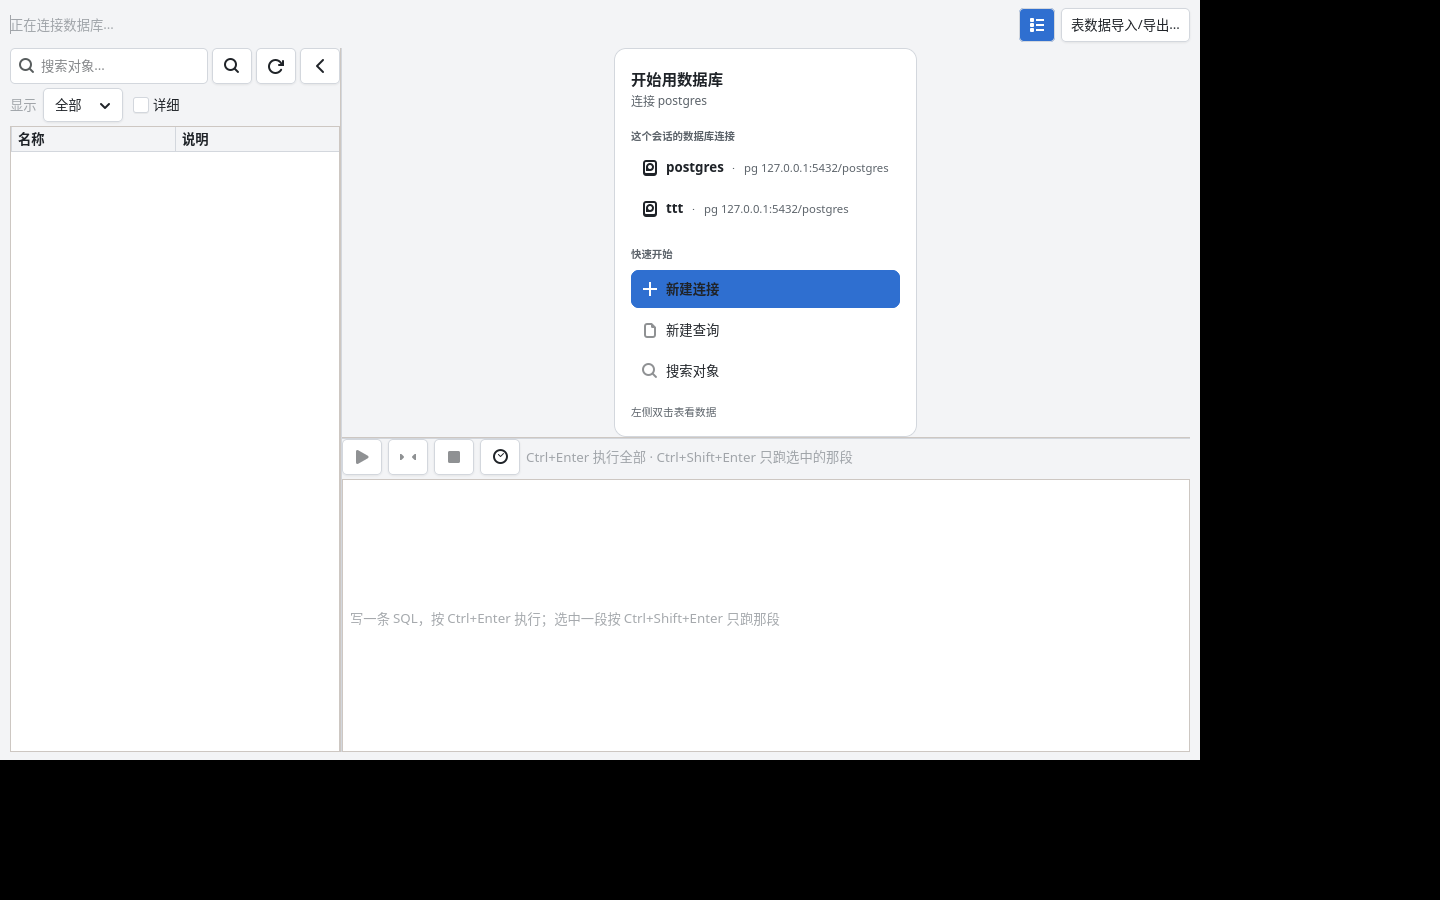
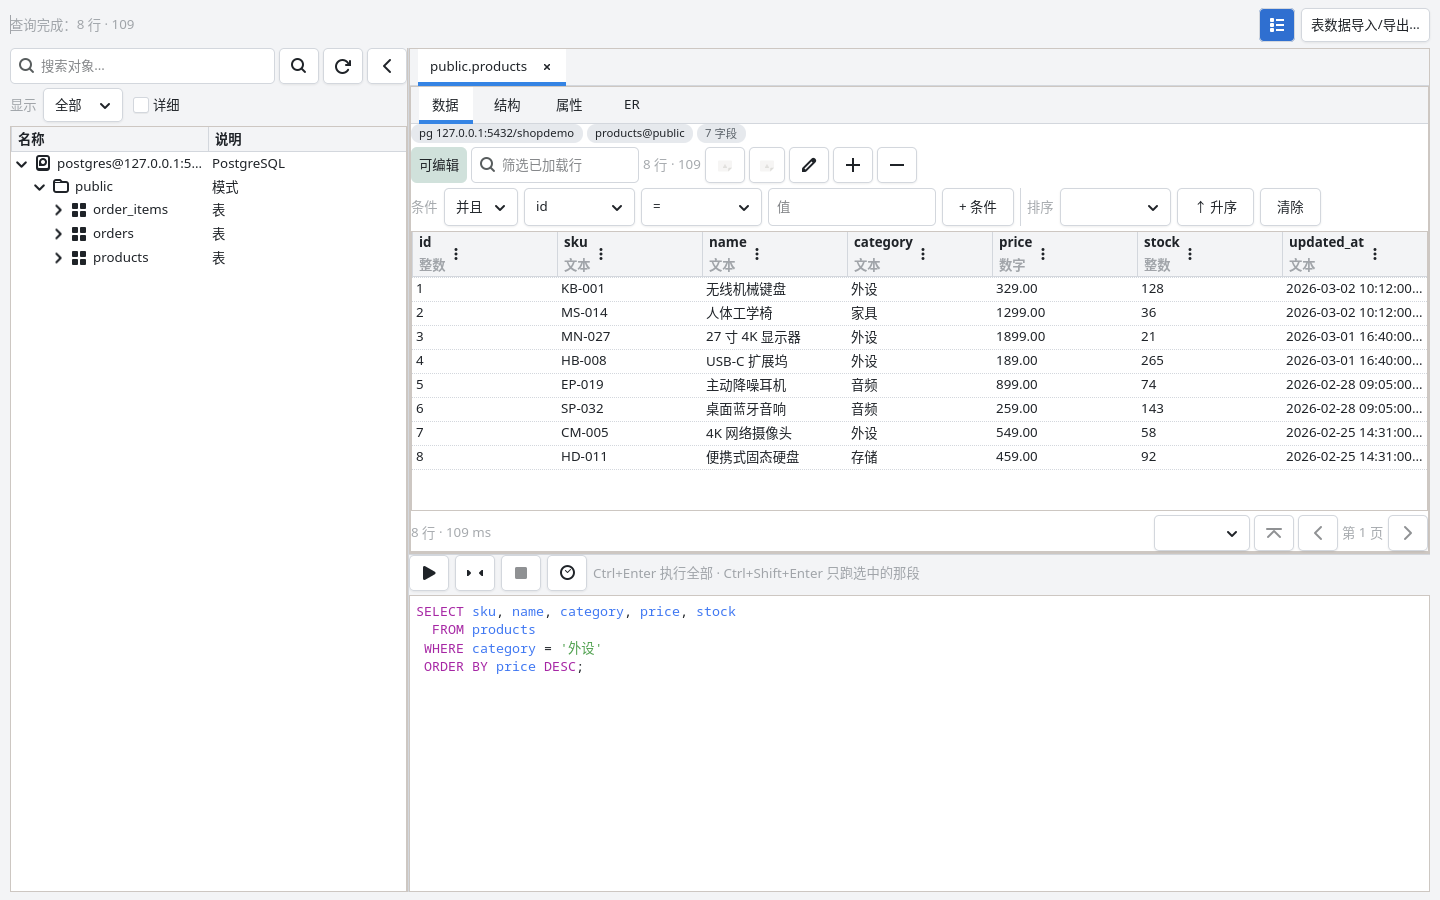
功能：README 两张截图换成真机演示（终端分屏 + 数据库工作台）
图一（docs/images/终端.png，原「欢迎页」那张）：
  真实连上一台演示服务器后的窗口 —— 顶栏菜单、连接侧栏、远程/本地双栏文件，
  终端左右分屏两块同时有输出（左边 ls + git log，右边 cat config.yaml + 日志）。

图二（docs/images/工作台.png）：
  真连真库（PG）后的数据库工作台 —— 左边对象树（模式 → 表），右边表文档页
  （数据 / 结构 / 属性 / ER），下面是带高亮的 SQL 编辑器；数据是干净的示例数据。

配套新增 examples/db_shot.rs：连真 SSH + 真数据库的工作台截图工具
（和 db_empty_shot 一个路子，但真的连库、真的开表）。

README 里补了「分屏」这一条 —— 之前通篇没提这个功能。

diff --git a/examples/db_shot.rs b/examples/db_shot.rs
@@ -1,0 +1,204 @@
+//! 数据库工作台**截图**工具：真 SSH + 真数据库，拍一张「连上了、对象树展开了、
+//! 表里有数据」的工作台画面（README 用）。
+//!
+//! 用法：
+//! ```text
+//! cargo run --example db_shot -- <ssh_host> <ssh_port> <ssh_user> \
+//!     <db_host> <db_port> <db_user> <dbname> <db_pass> <schema> <table> [out.png]
+//! ```
+//!
+//! ⚠ 不碰用户的真实配置：ini 都指到临时文件（`PUTTYPLUS_DB_INI` 等）。
+//! ⚠ SSH 用的私钥来自 `~/.ssh`（`HOME` 由调用方给）——本例**不改** `HOME`，
+//!    因为真库那台机器的密钥就在真实家目录里。
+
+use gtk::prelude::*;
+use puttyplus::args::ConnOptions;
+use puttyplus::panel::{SftpPanel, dbui};
+use puttyplus::theme::{self, Theme};
+
+fn pump(ms: u64) {
+    let ctx = gtk::glib::MainContext::default();
+    let deadline = std::time::Instant::now() + std::time::Duration::from_millis(ms);
+    while std::time::Instant::now() < deadline {
+        while ctx.pending() {
+            ctx.iteration(false);
+        }
+        std::thread::sleep(std::time::Duration::from_millis(10));
+    }
+}
+
+/// 找窗口里的**竖向**分栏（结果区 / SQL 编辑器之间那道）。
+///
+/// 找不到就返回 None（截图照旧，只是网格矮一点）。
+fn find_vpaned(w: &gtk::Widget) -> Option<gtk::Paned> {
+    if let Some(p) = w.downcast_ref::<gtk::Paned>() {
+        if p.orientation() == gtk::Orientation::Vertical {
+            return Some(p.clone());
+        }
+    }
+    let mut c = w.first_child();
+    while let Some(ch) = c {
+        let next = ch.next_sibling();
+        if let Some(f) = find_vpaned(&ch) {
+            return Some(f);
+        }
+        c = next;
+    }
+    None
+}
+
+/// 临时 ini 用完就删（别留垃圾）。
+struct IniGuard(std::path::PathBuf);
+
+impl Drop for IniGuard {
+    fn drop(&mut self) {
+        let _ = std::fs::remove_file(&self.0);
+    }
+}
+
+fn main() {
+    let args: Vec<String> = std::env::args().skip(1).collect();
+    let get = |i: usize, d: &str| -> String { args.get(i).cloned().unwrap_or_else(|| d.to_string()) };
+    let ssh_host = get(0, "127.0.0.1");
+    let ssh_port: i32 = get(1, "22").parse().unwrap_or(22);
+    let ssh_user = get(2, "root");
+    let db_host = get(3, "127.0.0.1");
+    let db_port = get(4, "5432");
+    let db_user = get(5, "postgres");
+    let dbname = get(6, "postgres");
+    let db_pass = get(7, "");
+    let schema = get(8, "public");
+    let table = get(9, "");
+    let out = get(10, "/tmp/pp_db_shot.png");
+
+    gtk::init().expect("gtk init");
+    theme::apply(Theme::Light);
+
+    // 隔离 ini：连上库会 persist（写 databases.ini），不隔离就会往用户
+    // 配置里塞一条连接。
+    let tag = std::process::id();
+    let tmp = std::env::temp_dir();
+    let mut guards: Vec<IniGuard> = Vec::new();
+    for (var, file) in [
+        ("PUTTYPLUS_DB_INI", format!("pp-db-shot-db-{tag}.ini")),
+        ("PUTTYPLUS_SETTINGS_INI", format!("pp-db-shot-set-{tag}.ini")),
+        ("PUTTYPLUS_HIST_INI", format!("pp-db-shot-hist-{tag}.ini")),
+        ("PUTTYPLUS_COLS_INI", format!("pp-db-shot-cols-{tag}.ini")),
+    ] {
+        let p = tmp.join(&file);
+        let _ = std::fs::remove_file(&p);
+        // set_var 在新 Rust 里是 unsafe：这里只有一个线程在跑
+        unsafe { std::env::set_var(var, &p) };
+        guards.push(IniGuard(p));
+    }
+
+    let mut opts = ConnOptions::default();
+    opts.proto = "ssh".into();
+    opts.host = ssh_host.clone();
+    opts.port = ssh_port;
+    opts.user = ssh_user.clone();
+    let panel = SftpPanel::new(&opts);
+    let st = std::rc::Rc::clone(&panel.st);
+
+    // 等 SSH 连上（远端 + 网络，60 秒保险）
+    let mut waited = 0;
+    while !st.conn_ok.get() && waited < 60_000 {
+        pump(200);
+        waited += 200;
+    }
+    assert!(st.conn_ok.get(), "SSH 没连上 {ssh_user}@{ssh_host}:{ssh_port}");
+    println!("[1] SSH 已连接");
+
+    // 建工作台。
+    //
+    // ⚠ **不走 `panel::on_open_db`**：它会先连「上次用的连接」，这时候
+    // 一条都还没有 ⇒ 会弹一个没用的错误框（还挡着截图）。
+    dbui::ensure(&st);
+    pump(400);
+
+    dbui::set_conn_now(&st, "pg", &db_host, &db_port, &db_user, &dbname, &db_pass);
+    pump(200);
+    dbui::connect_now(&st);
+
+    let mut waited = 0;
+    while waited < 60_000 {
+        pump(300);
+        waited += 300;
+        if dbui::is_connected_now(&st) {
+            break;
+        }
+    }
+    assert!(
+        dbui::is_connected_now(&st),
+        "数据库没连上：{}",
+        dbui::status_text(&st)
+    );
+    println!("[2] 数据库已连接：{}", dbui::status_text(&st));
+
+    // 等对象树（默认模式自动展开 ⇒ 表直接列出来）
+    pump(3000);
+    println!("[3] 对象树：{}", dbui::tree_state(&st).join(" / "));
+
+    // 打开一张表 ⇒ 数据页签里有行
+    if !table.is_empty() {
+        let idx = dbui::open_table_now(&st, &schema, &table);
+        println!("[4] 打开 {schema}.{table}：{idx:?}");
+        let mut waited = 0;
+        while waited < 30_000 {
+            pump(300);
+            waited += 300;
+            if !dbui::grid_rows(&st).is_empty() {
+                break;
+            }
+        }
+        let rows = dbui::grid_rows(&st);
+        println!(
+            "[5] 网格：{} 行",
+            rows.last().map(|(_, r)| r.len()).unwrap_or(0)
+        );
+    }
+    pump(1500);
+
+    // 打磨画面：SQL 编辑器里放一条示例查询（不执行——主视图留给表格数据）
+    {
+        let slot = st.db_ui.borrow();
+        if let Some(ui) = slot.as_ref() {
+            ui.sql.buffer().set_text(
+                "SELECT sku, name, category, price, stock\n  FROM products\n WHERE category = '外设'\n ORDER BY price DESC;\n",
+            );
+        }
+    }
+    pump(600);
+
+    // 窗口摆到 README 要的尺寸
+    {
+        let slot = st.db_ui.borrow();
+        if let Some(ui) = slot.as_ref() {
+            ui.win.set_default_size(1440, 900);
+            // ⚠ 没有窗口管理器 ⇒ 窗口不会被人摆正，`set_default_size` 在
+            // 已经 present 之后也不一定生效 ⇒ 用 size_request 顶住最小尺寸。
+            ui.win.set_size_request(1440, 900);
+            ui.win.present();
+        }
+    }
+    pump(1500);
+
+    // 挪分隔条：**上半区（结果网格）矮了一截，最后一行只露半行**。
+    // 往下拉 SQL 编辑器，把多出来的空间让给数据。
+    {
+        let slot = st.db_ui.borrow();
+        if let Some(ui) = slot.as_ref() {
+            if let Some(p) = find_vpaned(ui.win.upcast_ref::<gtk::Widget>()) {
+                p.set_position(505);
+            }
+        }
+    }
+    pump(1200);
+
+    let _ = std::fs::remove_file(&out);
+    let _ = std::process::Command::new("/usr/bin/scrot")
+        .arg("-o")
+        .arg(&out)
+        .status();
+    println!("截图：{out}");
+}

diff --git a/README.md b/README.md
@@ -7,7 +7,7 @@
 技术栈：GTK4 + VTE4 + russh + russh-sftp。SSH/SFTP 协议栈与加密库全部静态打进一个
 可执行文件，运行时只需要 GTK4 / VTE4 两个运行库。
 
-![欢迎页](docs/images/欢迎.png)
+![连上服务器：左右分屏的终端 + 远程/本地双栏文件](docs/images/终端.png)
 
 ## 项目缘起
 
@@ -77,11 +77,14 @@ ssh 子进程长什么样 —— 每一处都要和 PuTTY 对得上。
   当前 SFTP 连接，不用先下载）。
 - **会话结束后能救回来**：终端区会摆出「会话已结束 · 点此重新连接」，右键菜单里也有
   「重新连接终端」；关掉的终端页签点重连会重建出来。
+- **分屏**：一个终端页签里可以左右 / 上下切分，同时盯住几路输出（顶部「终端」菜单 →
+  「左右分屏」/「上下分屏」；右键菜单里也能从当前那块分）；每个终端页签各有一组
+  自己的分屏布局，互不干扰。
 - 终端查找、复制粘贴、按键广播、终端日志、会话录制与回放。
 
 ### 三、数据库工作台
 
-![数据库工作台](docs/images/工作台.png)
+![数据库工作台：对象树、可编辑数据网格、SQL 编辑器](docs/images/工作台.png)
 
 - **对象树**：模式 → 表 / 视图 → 列 / 索引，**展开才查**（不一次性拉全库元数据）；
   顶部搜索框可以在**整个库里搜对象**（表、视图、字段、函数、存储过程、触发器、事件）。
